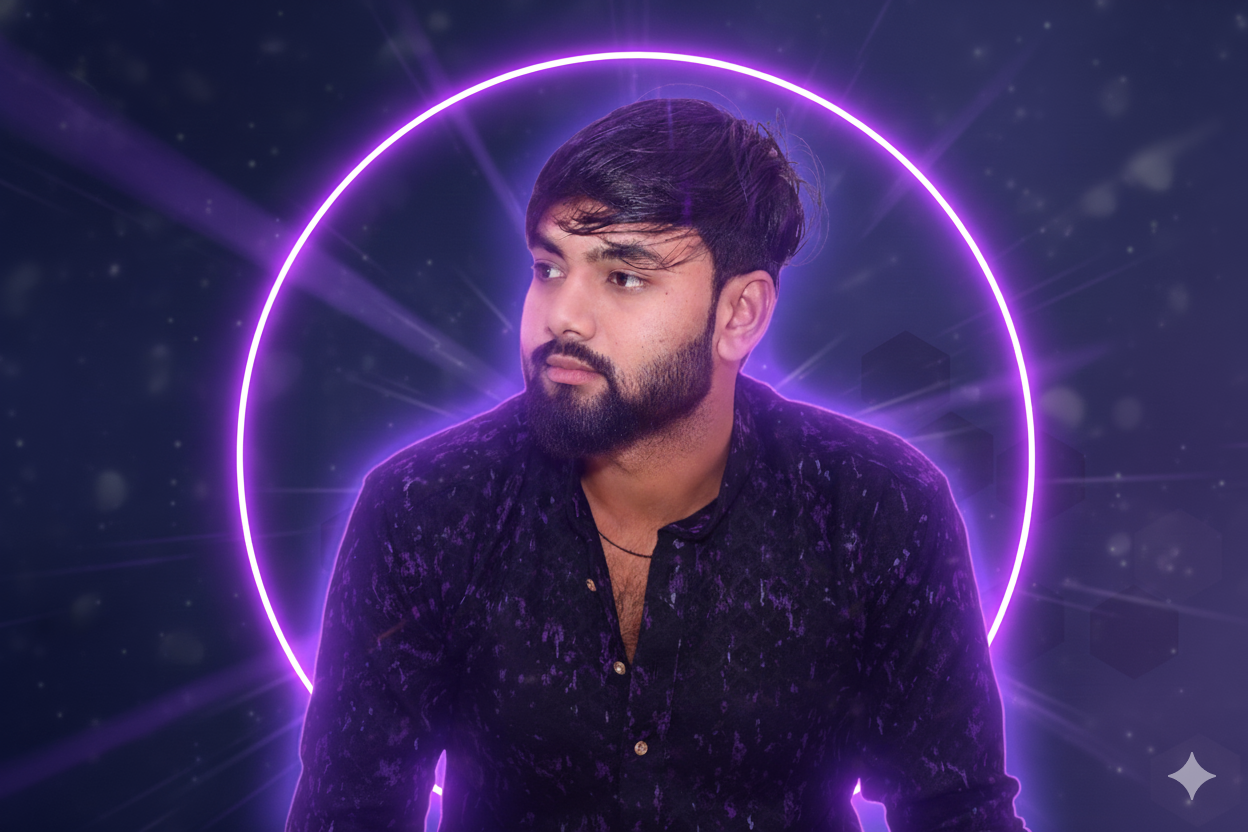
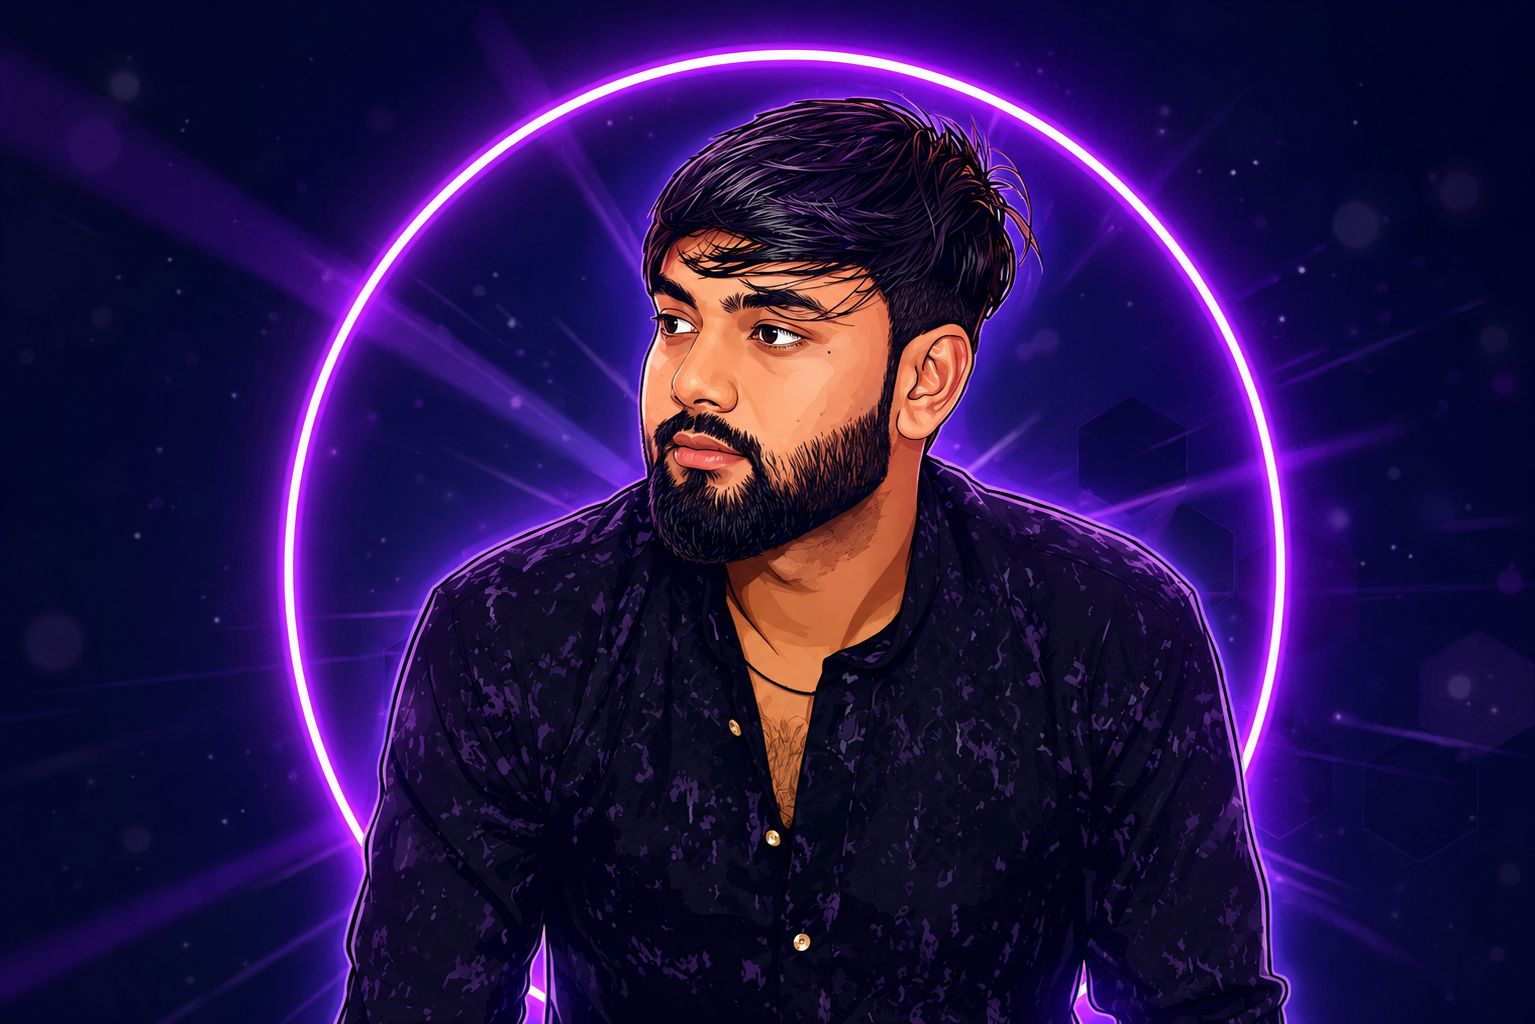
Change pf

diff --git a/index.html b/index.html
@@ -68,7 +68,7 @@ https://templatemo.com/tm-600-prism-flux
       <div class="hero-text">
   
          <h1 class="hero-title">
-    Hii, I'm <span class="name">Sugam Kushwaha</span>
+    Hi, I'm <span class="name">Sugam Kushwaha</span>
   </h1>
   <p class="hero-subtitle">
     <span id="animatedText" class="text-bold">Full Stack Java Developer | AI Engineer | Web Developer | Tech Enthusiast. I'm a passionate developer who loves turning ideas into real-world solutions. My goal is to create meaningful digital experiences through clean code and creative design.</span>